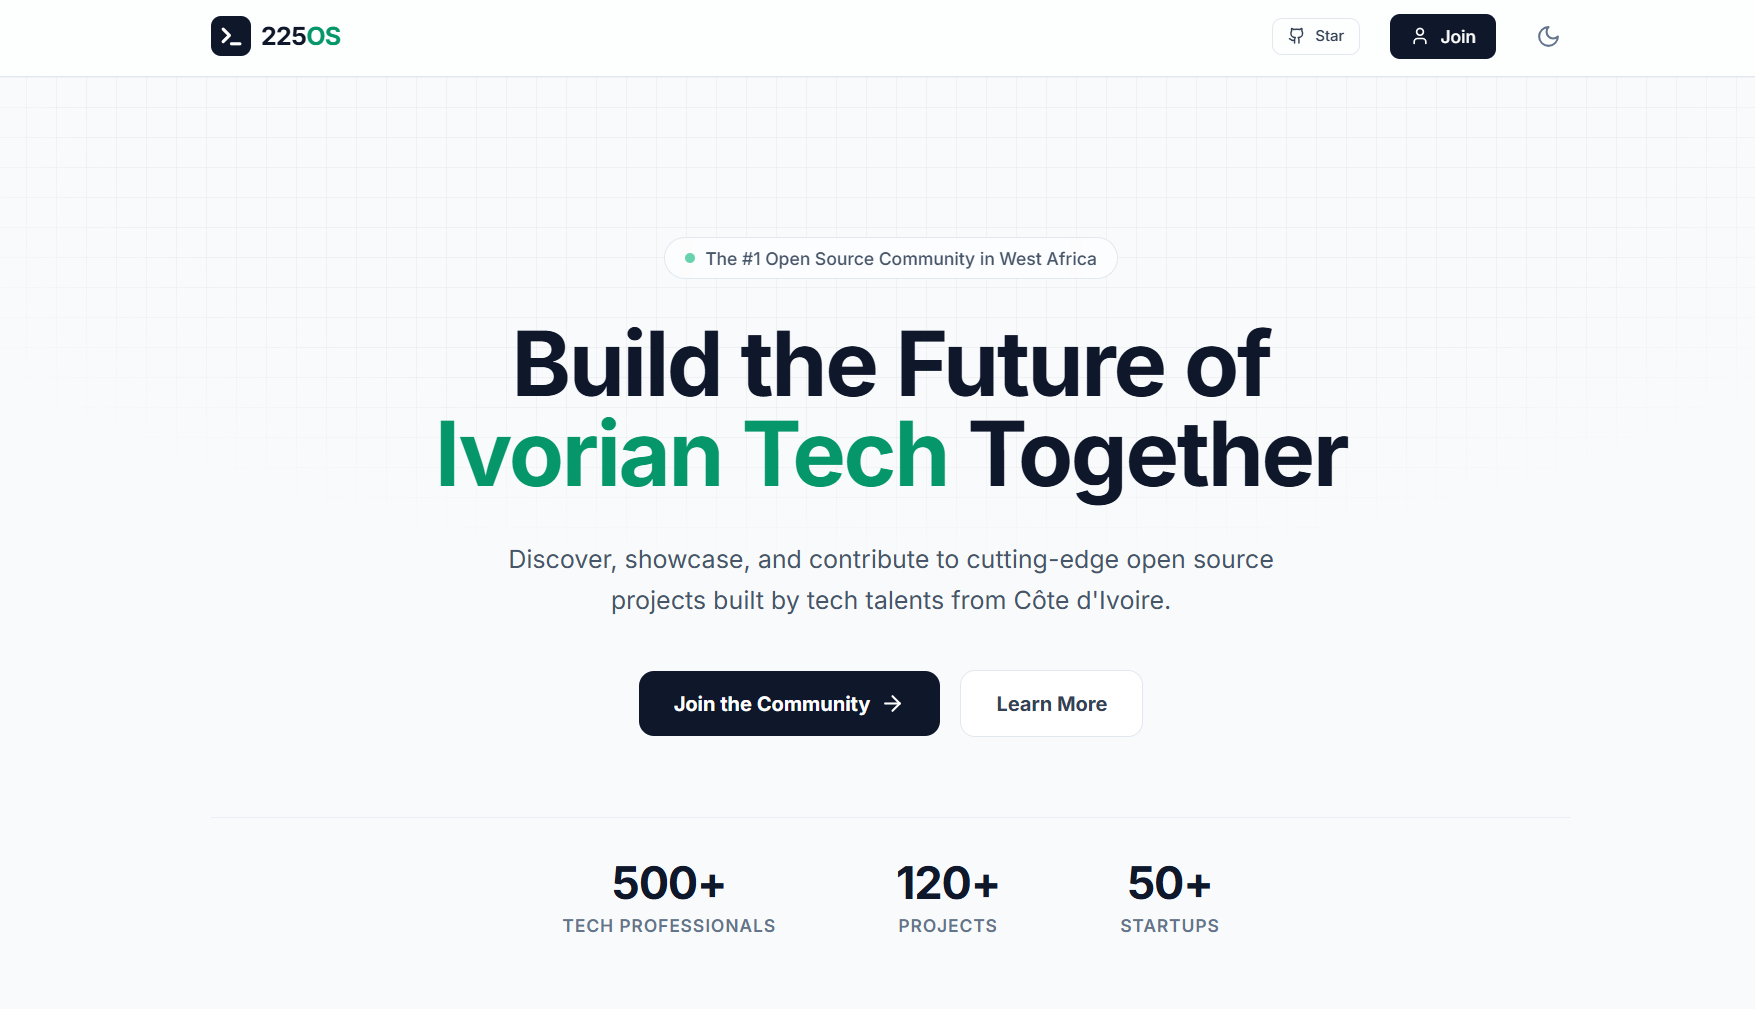
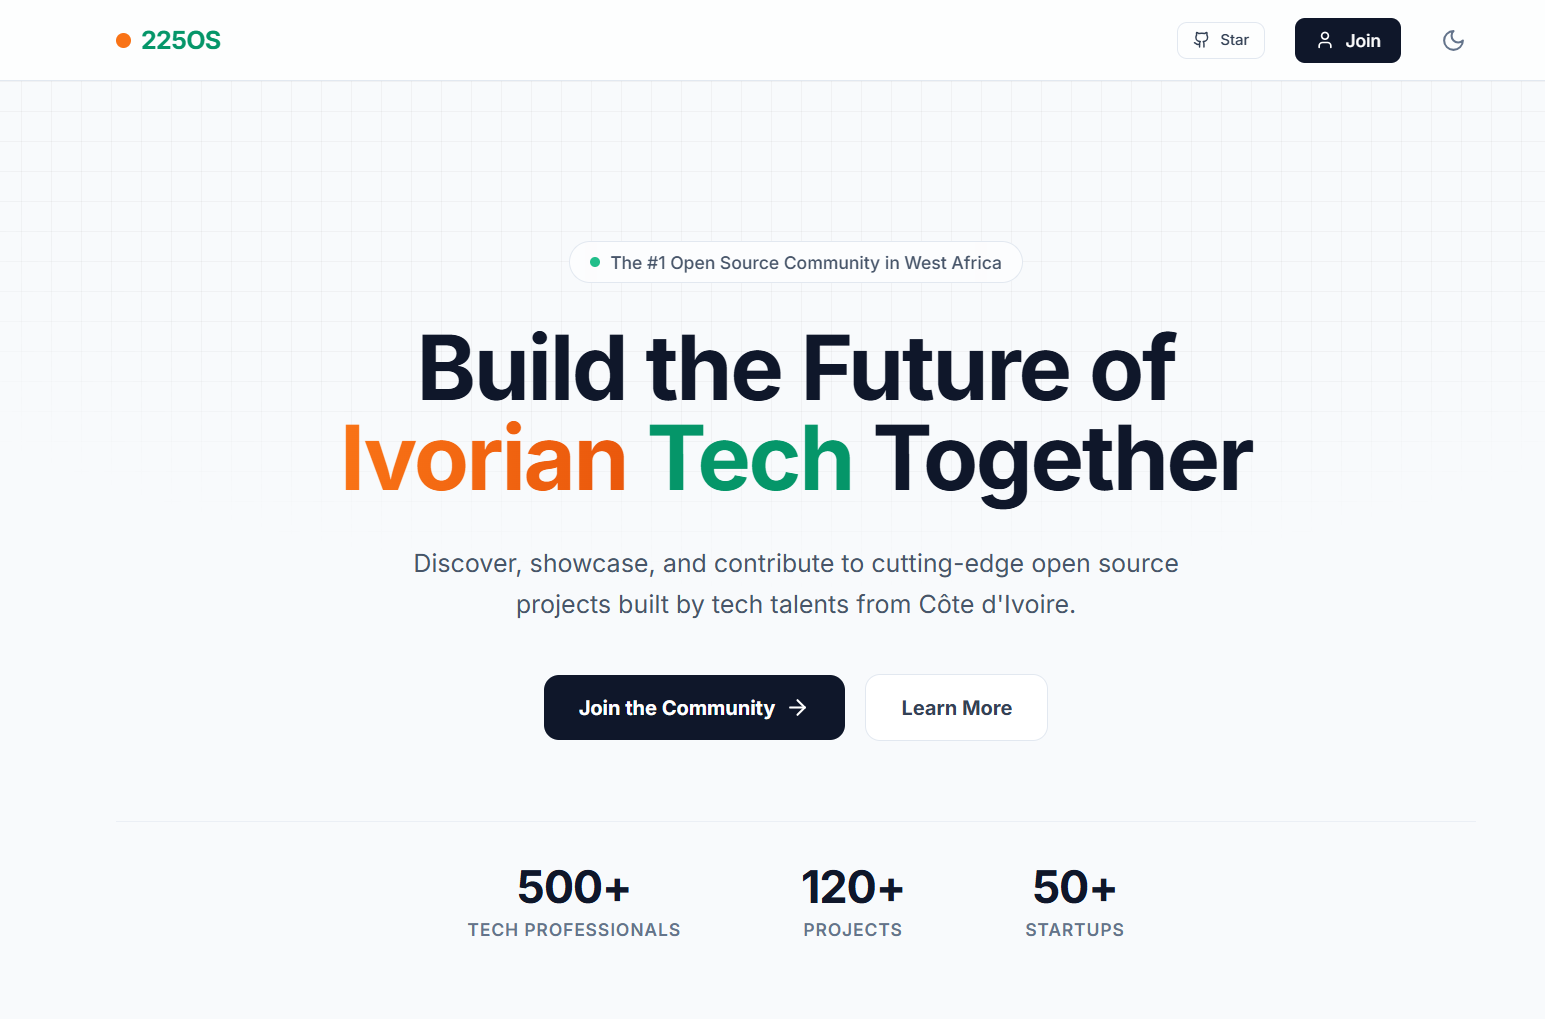
Add

diff --git a/components/Navbar.tsx b/components/Navbar.tsx
@@ -24,11 +24,10 @@ const Navbar: React.FC = () => {
           <div className="flex justify-between items-center h-16">
 
             <Link to="/" className="flex items-center gap-2 group">
-              <div className="bg-slate-900 dark:bg-white text-white dark:text-slate-900 p-1.5 rounded-lg group-hover:rotate-3 transition-transform">
-                <Terminal size={20} strokeWidth={3} />
+              <div className="bg-orange-500 dark:bg-orange-400 text-white dark:text-slate-900 p-1.5 rounded-lg group-hover:rotate-3 transition-transform">
               </div>
               <span className="font-bold text-xl tracking-tight text-slate-900 dark:text-white">
-                225<span className="text-emerald-600 dark:text-emerald-400">OS</span>
+                <span className="text-emerald-600 dark:text-emerald-400">225OS</span>
               </span>
             </Link>
 
